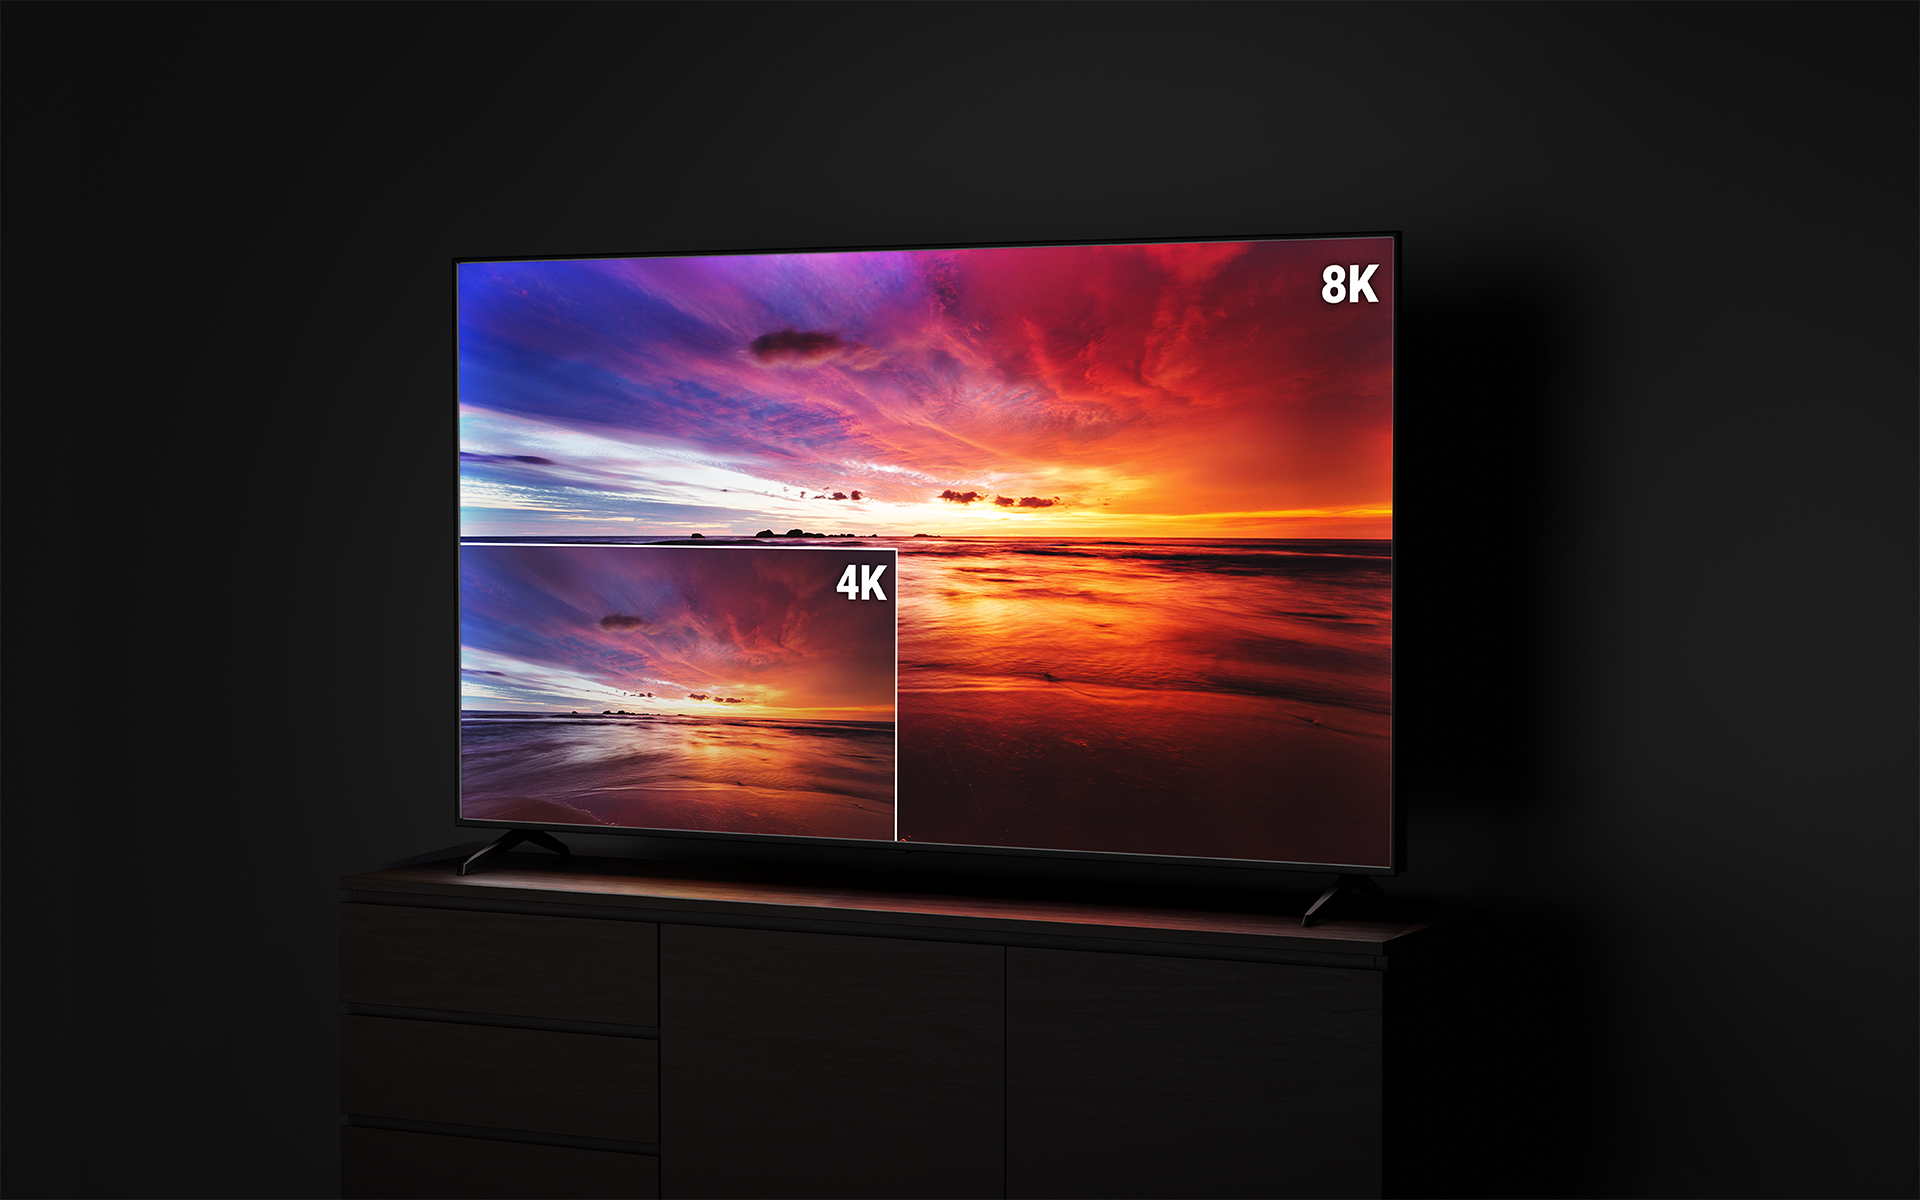
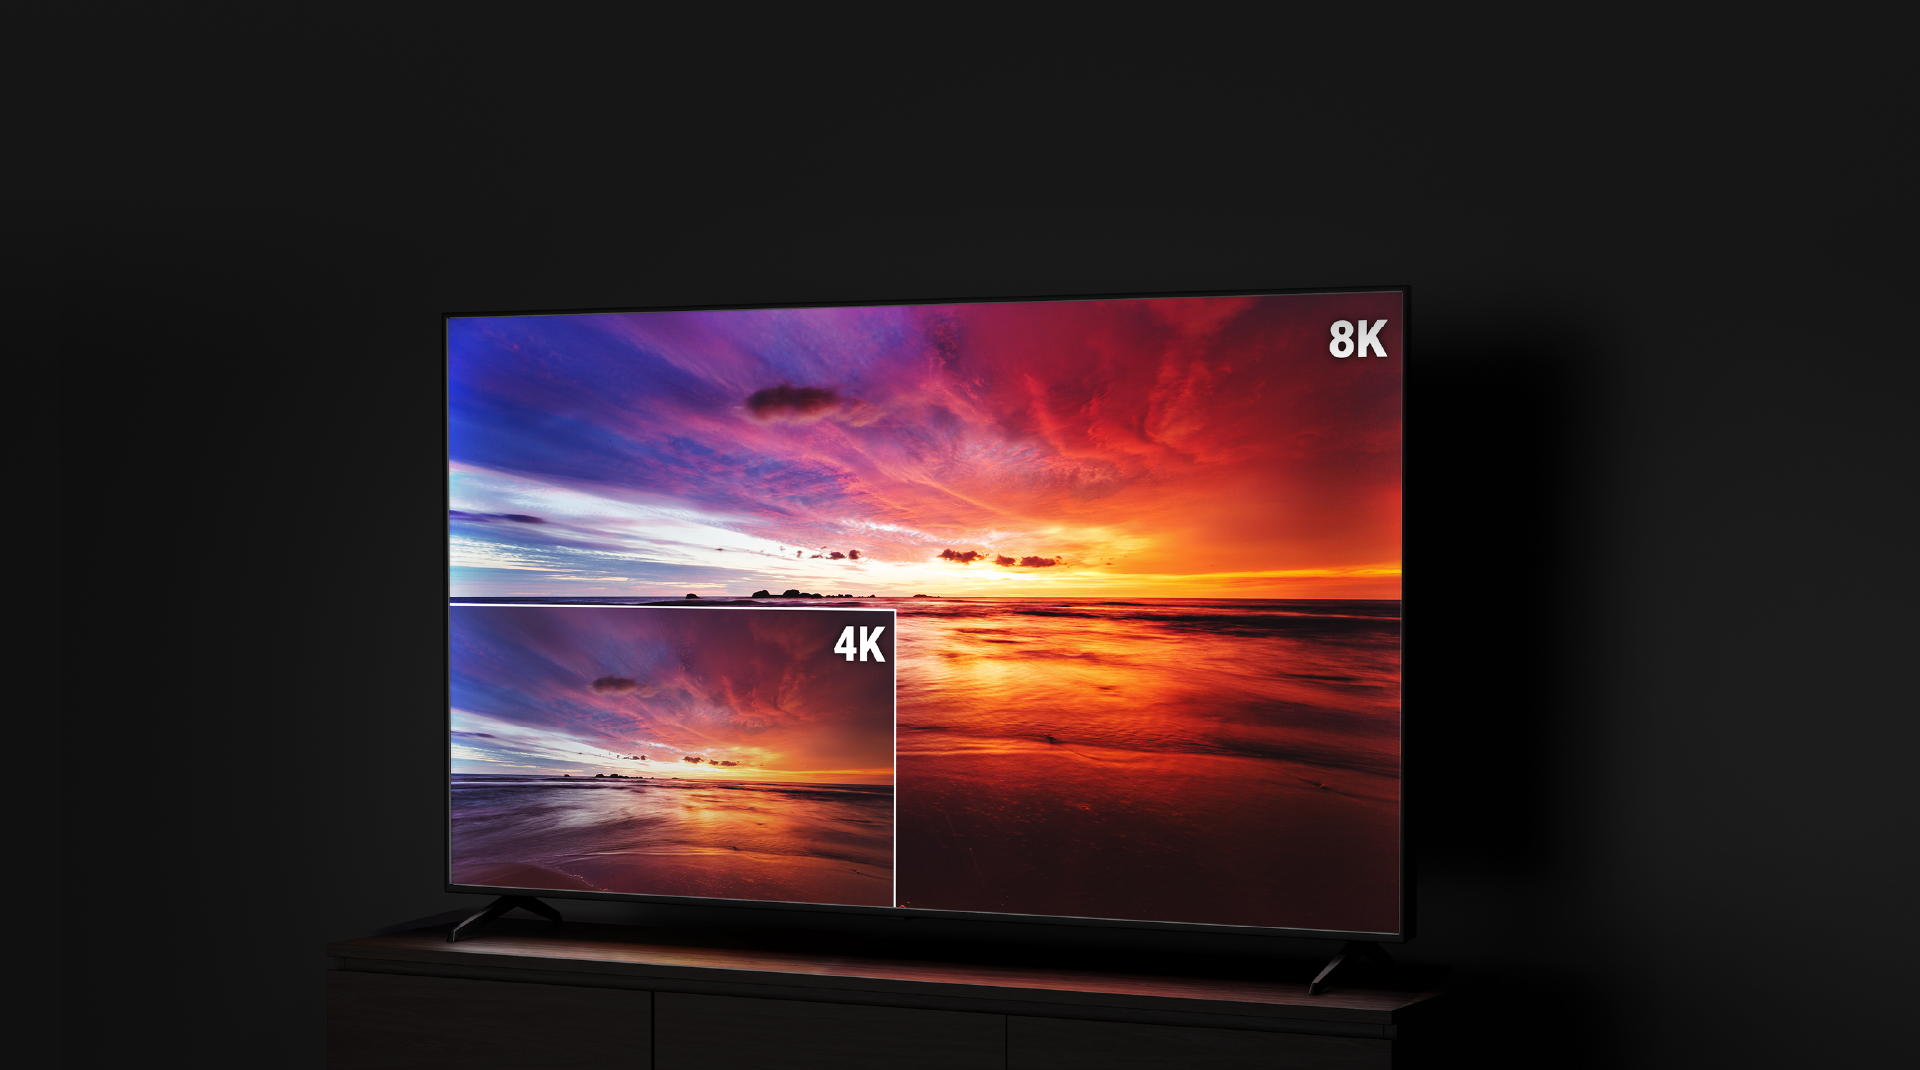
001

Changed region(s): [[0.2188, 0.185, 0.75, 0.9561]]

diff --git a/program/aten/20252Cweb/index.html b/program/aten/20252Cweb/index.html
@@ -276,10 +276,10 @@
                             <img src="./images/scenario_01.png" alt="Home Cinema scenario" class="scenario-bg">
 
                             <!-- Orange Dot with Tooltip -->
-                            <div class="scenario-dot" style="top: 55%; left: 31%;">
+                            <div class="scenario-dot" style="top: 55%; left: 31%;" data-product-url="#product-vs4841">
                                 <span class="dot-pulse"></span>
                                 <div class="scenario-tooltip">
-                                    <img src="./images/scenario_detail_01.png" alt="4-Port True 4K HDMI Switch VS4841"
+                                    <img src="./images/VS4841_Icons.png" alt="4-Port True 4K HDMI Switch VS4841"
                                         class="tooltip-image">
                                     <p class="tooltip-text">4-Port True 4K HDMI Switch VS4841</p>
                                 </div>
@@ -299,10 +299,10 @@
                             <img src="./images/scenario_01.png" alt="Home Fun scenario" class="scenario-bg">
 
                             <!-- Orange Dot with Tooltip -->
-                            <div class="scenario-dot" style="top: 55%; left: 31%;">
+                            <div class="scenario-dot" style="top: 55%; left: 31%;" data-product-url="#product-vs4812">
                                 <span class="dot-pulse"></span>
                                 <div class="scenario-tooltip">
-                                    <img src="./images/scenario_detail_01.png" alt="2-Port True 4K HDMI Splitter VS4812"
+                                    <img src="./images/VS4812_Icons.png" alt="2-Port True 4K HDMI Splitter VS4812"
                                         class="tooltip-image">
                                     <p class="tooltip-text">2-Port True 4K HDMI Splitter VS4812</p>
                                 </div>
@@ -322,10 +322,10 @@
                             <img src="./images/scenario_02.png" alt="Pro Gaming scenario" class="scenario-bg">
 
                             <!-- Orange Dot with Tooltip -->
-                            <div class="scenario-dot" style="top: 72%; left: 32%;">
+                            <div class="scenario-dot" style="top: 72%; left: 32%;" data-product-url="#product-vs5812">
                                 <span class="dot-pulse"></span>
                                 <div class="scenario-tooltip">
-                                    <img src="./images/scenario_detail_02.png" alt="2-Port 8K HDMI Splitter VS5812"
+                                    <img src="./images/VS5812_Icons.png" alt="2-Port 8K HDMI Splitter VS5812"
                                         class="tooltip-image">
                                     <p class="tooltip-text">2-Port 8K HDMI Splitter VS5812</p>
                                 </div>
@@ -345,11 +345,11 @@
                             <img src="./images/scenario_03.png" alt="Workplay Zone scenario" class="scenario-bg">
 
                             <!-- Orange Dot with Tooltip -->
-                            <div class="scenario-dot" style="top: 55%; left: 65%;">
+                            <div class="scenario-dot" style="top: 55%; left: 65%;" data-product-url="#product-us4324">
                                 <span class="dot-pulse"></span>
                                 <div class="scenario-tooltip">
-                                    <img src="./images/scenario_detail_03.png"
-                                        alt="2 x 4 USB3.2 Gen 1 Sharing Switch US4324" class="tooltip-image">
+                                    <img src="./images/US4324_Icons.png" alt="2 x 4 USB3.2 Gen 1 Sharing Switch US4324"
+                                        class="tooltip-image">
                                     <p class="tooltip-text">2 x 4 USB3.2 Gen 1 Sharing Switch US4324</p>
                                 </div>
                             </div>

diff --git a/program/aten/20252Cweb/script.js b/program/aten/20252Cweb/script.js
@@ -224,6 +224,21 @@ const initScenariosTabs = () => {
             }
         });
     });
+
+    // Add click event to scenario dots for product navigation
+    const scenarioDots = document.querySelectorAll('.scenario-dot');
+    scenarioDots.forEach(dot => {
+        dot.addEventListener('click', (e) => {
+            e.stopPropagation(); // Prevent event bubbling
+            const productUrl = dot.getAttribute('data-product-url');
+            if (productUrl) {
+                window.location.href = productUrl;
+            }
+        });
+
+        // Add cursor pointer style
+        dot.style.cursor = 'pointer';
+    });
 };
 
 // =====================================================
@@ -268,7 +283,7 @@ const productData = [
         name: "2-Port True 4K HDMI Splitter",
         url: "#detail-vs4812",
         eShopUrl: "#eshop-vs4812",
-        icons: "./images/productIcon.png",
+        icons: "./images/VS4812_Icons.png",
         imageUrl: "./images/product01.png",
         currency: "NT$",
         price: 3200,
@@ -312,7 +327,7 @@ const productData = [
         name: "4-Port True 4K HDMI Splitter",
         url: "#detail-vs4814",
         eShopUrl: "#eshop-vs4814",
-        icons: "./images/productIcon.png",
+        icons: "./images/VS4814_Icons.png",
         imageUrl: "./images/product02.png",
         currency: "NT$",
         price: 4500,
@@ -356,7 +371,7 @@ const productData = [
         name: "2-Port 8K HDMI Splitter",
         url: "#detail-vs5812",
         eShopUrl: "#eshop-vs5812",
-        icons: "./images/productIcon.png",
+        icons: "./images/VS5812_Icons.png",
         imageUrl: "./images/product03.png",
         currency: "NT$",
         price: 5800,
@@ -405,7 +420,7 @@ const productData = [
         name: "4-Port True 4K HDMI Switch",
         url: "#detail-vs4841",
         eShopUrl: "#eshop-vs4841",
-        icons: "./images/productIcon.png",
+        icons: "./images/VS4841_Icons.png",
         imageUrl: "./images/product04.png",
         currency: "NT$",
         price: 3800,
@@ -453,7 +468,7 @@ const productData = [
         name: "2-Port 8K HDMI Switch",
         url: "#detail-vs5821",
         eShopUrl: "#eshop-vs5821",
-        icons: "./images/productIcon.png",
+        icons: "./images/VS5821_Icons.png",
         imageUrl: "./images/product05.png",
         currency: "NT$",
         price: 4200,

diff --git a/program/aten/20252Cweb/styles.css b/program/aten/20252Cweb/styles.css
@@ -67,6 +67,11 @@
     box-sizing: border-box;
 }
 
+html {
+    width: 100vw;
+    overflow-x: hidden;
+}
+
 body {
     font-family: -apple-system, BlinkMacSystemFont, "Segoe UI", Roboto, "Helvetica Neue", Arial, sans-serif;
     font-size: var(--font-size-base);
@@ -682,8 +687,8 @@ a:hover {
             rgba(60, 40, 30, 0.8) 35%,
             rgba(100, 50, 20, 0.75) 42%,
             rgba(150, 70, 20, 0.7) 47%,
-            rgba(200, 90, 30, 0.65) 49%,
-            rgba(240, 96, 0, 0.6) 50.1%,
+            rgba(200, 90, 30, 0.65) 49.5%,
+            rgba(240, 96, 0, 0.825) 50.1%,
             transparent 50.3%);
     z-index: 3;
 }
@@ -697,14 +702,14 @@ a:hover {
     height: 100%;
     border-radius: 50%;
     background: radial-gradient(ellipse at 50% 65%,
-            rgba(240, 96, 0, 0) 48%,
-            rgba(255, 150, 60, 0.5) 49%,
+            rgba(240, 96, 0, 0) 30%,
+            rgba(255, 150, 60, 0.5) 40%,
             rgba(255, 180, 100, 0.75) 49.5%,
             rgba(255, 200, 120, 0.85) 49.9%,
             rgba(255, 220, 150, 0.9) 50.3%,
             rgba(255, 240, 200, 0.7) 50.7%,
-            rgba(255, 250, 220, 0.4) 51.5%,
-            transparent 52%);
+            rgba(255, 250, 220, 0.4) 55.5%,
+            transparent 70%);
     z-index: 2;
 }
 
@@ -783,8 +788,8 @@ a:hover {
 /* ===== Responsive: 480px ===== */
 @media (max-width: 480px) {
     .sunrise-section {
-        height: 150vh;
-        margin-bottom: -150vw;
+        height: 100vh;
+        margin-bottom: 0;
     }
 
     .sun-wrapper {
@@ -805,7 +810,7 @@ a:hover {
     background-color: #000000;
     padding: var(--spacing-xxl) 0;
     overflow: hidden;
-    margin-top: -500px;
+    margin-top: 0;
 }
 
 .showcase-header {
@@ -1155,6 +1160,7 @@ a:hover {
 @media (max-width: 480px) {
     .product-display {
         padding: var(--spacing-sm);
+        margin-top: -50px;
     }
 
     .product-info {
@@ -1217,7 +1223,7 @@ a:hover {
 }
 
 .feature-content {
-    padding-top: var(--spacing-md);
+    /* padding-top: var(--spacing-md); */
     margin-bottom: var(--spacing-lg);
 }
 
@@ -1293,7 +1299,7 @@ a:hover {
 .feature-section-fullscreen .feature-content {
     position: relative;
     z-index: 1;
-    padding: var(--spacing-xxl) var(--spacing-lg);
+    /* padding: var(--spacing-xxl) var(--spacing-lg); */
     margin-top: 4vh;
 }
 
